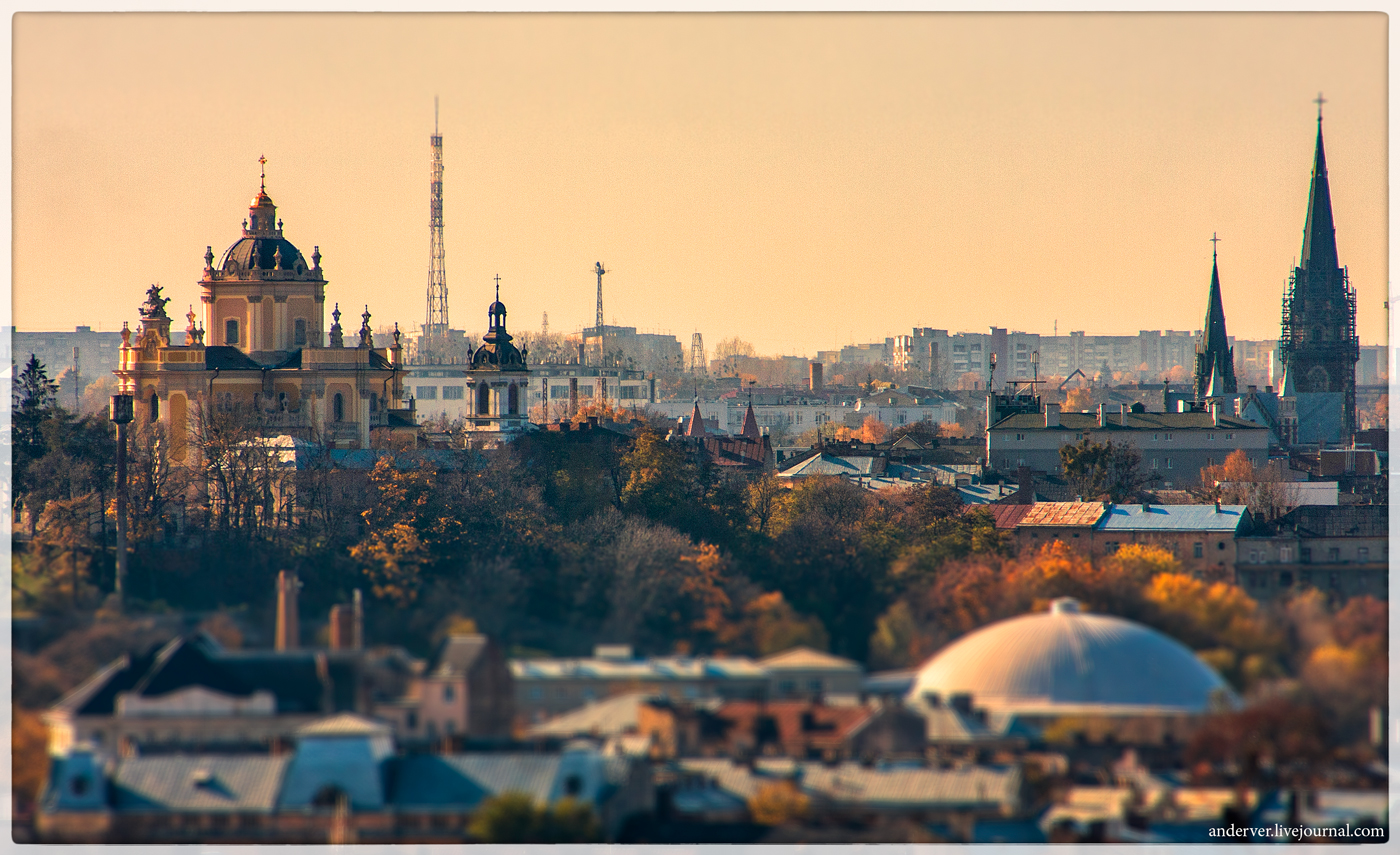
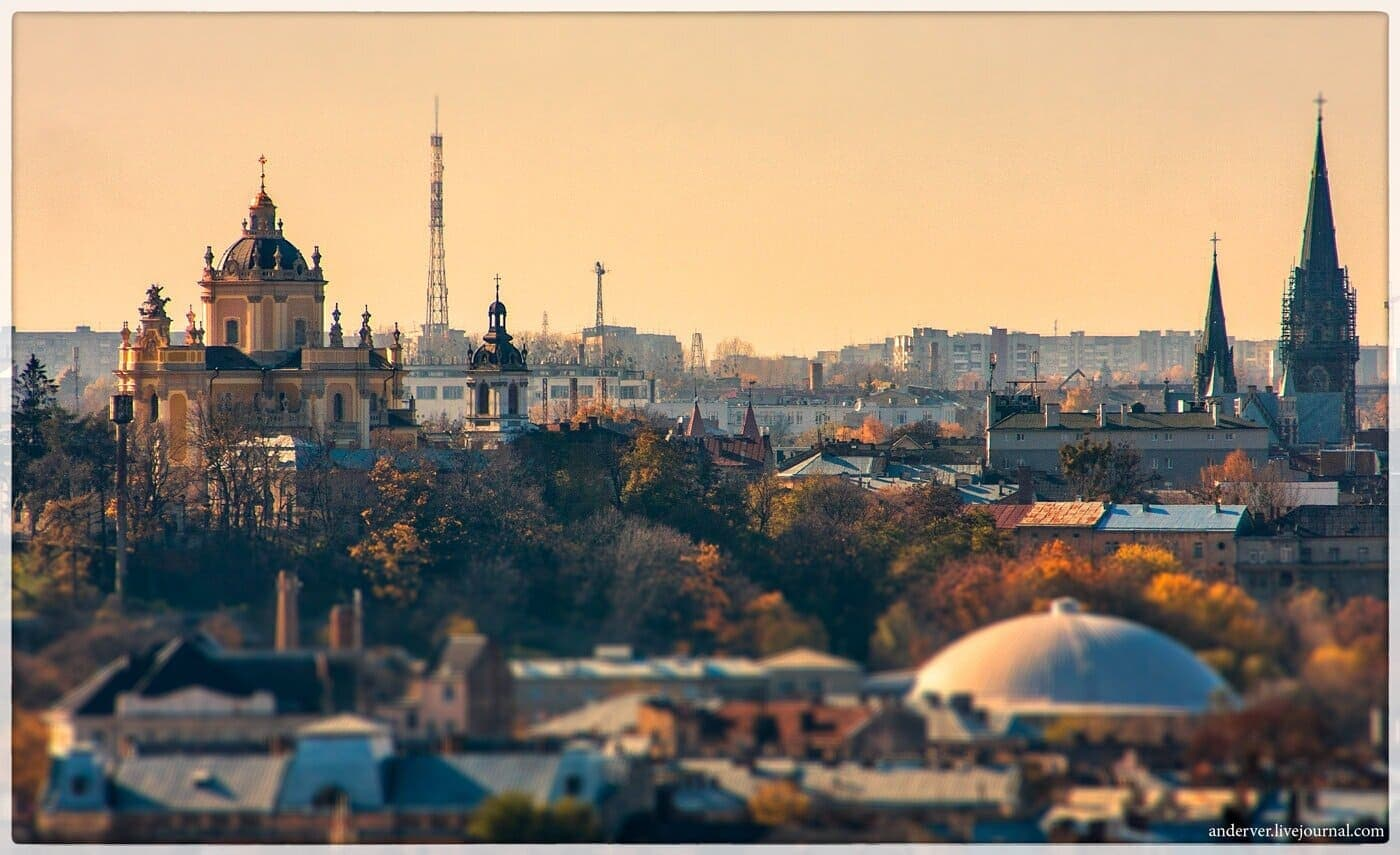
compress img, correct paddings (#43)
* compress img, correct paddings

* change width of item

* fix width for top routes item

* delete lines related with search b it doesn't work

* Remove search from my routes page (#44)

* Fix style

* Fix styles

diff --git a/frontend/guide-walk/src/pages/profile-page/profile-info-component.js b/frontend/guide-walk/src/pages/profile-page/profile-info-component.js
@@ -1,6 +1,6 @@
 import React from 'react';
 import { useAuth0 } from '@auth0/auth0-react';
-import { TextField }  from '@material-ui/core'; 
+import { TextField } from '@material-ui/core';
 import Button from '@material-ui/core/Button';
 import { withStyles } from '@material-ui/core/styles';
 
@@ -22,21 +22,21 @@ const CssTextField = withStyles({
   },
 })(TextField);
 
-export const ProfileInfoComponent = ({userAuthData}) => {
-  const {isAuthenticated, logout} = useAuth0();
+export const ProfileInfoComponent = ({ userAuthData }) => {
+  const { isAuthenticated, logout } = useAuth0();
   const userName = userAuthData && userAuthData.userName;
   const userEmail = userAuthData && userAuthData.email;
   const imgUrl = userAuthData && userAuthData.picture;
 
   return (
-    <div className={styles.form}>           
+    <div className={styles.wrapper}>
       <form className={styles.form}>
         <div className={styles.form__img}>
           <img src={imgUrl} alt={userName} />
         </div>
         <CssTextField
-          label="Name"
-          variant="outlined"
+          label='Name'
+          variant='outlined'
           value={userName || ''}
           InputProps={{
             readOnly: true,
@@ -47,10 +47,10 @@ export const ProfileInfoComponent = ({userAuthData}) => {
         />
 
         <CssTextField
-          id="standard-read-only-input"
-          label="Email"
+          id='standard-read-only-input'
+          label='Email'
           value={userEmail || ''}
-          variant="outlined"
+          variant='outlined'
           InputProps={{
             readOnly: true,
           }}
@@ -58,15 +58,12 @@ export const ProfileInfoComponent = ({userAuthData}) => {
             shrink: true,
           }}
         />
-      </form>
-      {isAuthenticated && <Button 
-        variant="contained"  
-        className={styles.logout__btn}
-        color="primary" 
-        onClick={logout}>
+        {isAuthenticated && (
+          <Button variant='contained' className={styles.logout__btn} color='primary' onClick={logout}>
             Log out
-        </Button>}
+          </Button>
+        )}
+      </form>
     </div>
-  )
+  );
 };
-

diff --git a/frontend/guide-walk/src/pages/profile-page/profile-info-component.module.scss b/frontend/guide-walk/src/pages/profile-page/profile-info-component.module.scss
@@ -6,13 +6,13 @@
 
   &__img {
     display: flex;
-        justify-content: center;
-        img{
-            width: 80px;
-            height: 80px;
-            border-radius: 50%;
-            margin-bottom: 10px;
-        }
+    justify-content: center;
+    img {
+      width: 80px;
+      height: 80px;
+      border-radius: 50%;
+      margin-bottom: 10px;
+    }
   }
 }
 
@@ -23,7 +23,6 @@
 
 button.logout__btn {
   width: 80%;
-  margin-top: 20px;
   background-color: #457b9d;
   width: 50%;
   margin-top: 20px;
@@ -32,4 +31,13 @@ button.logout__btn {
 
 input {
   text-align: center;
+}
+
+.wrapper {
+  width: 75%;
+  margin: 0 auto;
+
+  @media screen and (max-width: 768px) {
+    width: 100%;
+  }
 }

diff --git a/frontend/guide-walk/src/ui/current-route-info-block/current-route-info-block.js b/frontend/guide-walk/src/ui/current-route-info-block/current-route-info-block.js
@@ -6,6 +6,8 @@ export const CurrentRouteInfoBlock = ({ currentPointData }) => {
   return (
     <div className={classNames('info-block')}>
       <h2 className={classNames('info-block__name')}>Route name: {currentPointData.routeName}</h2>
+      <h4 className={classNames('info-block__description')}>Point name:</h4>
+      <p className={classNames('info-block__description__text')}>{currentPointData.name}</p>
       <h4 className={classNames('info-block__description')}>Point description:</h4>
       <p className={classNames('info-block__description__text')}>{currentPointData.description}</p>
       <h4 className={classNames('info-block__points-left')}>Points left: {currentPointData.pointsLeft}</h4>

diff --git a/frontend/guide-walk/src/pages/my-routes-page/my-route.scss b/frontend/guide-walk/src/pages/my-routes-page/my-route.scss
@@ -3,9 +3,13 @@
     margin-bottom: 82px;
     margin-top: 30px;
     display: grid;
-    grid-template-columns: 1fr 1fr;
+    grid-template-columns: repeat(3, 1fr);
 
-    @media screen and (max-width: 668px) {
+    @media screen and (max-width: 1100px) {
+      grid-template-columns: repeat(2, 1fr);
+    }
+
+    @media screen and (max-width: 768px) {
       grid-template-columns: 1fr;
     }
   }

diff --git a/frontend/guide-walk/src/pages/top-routes/top-routes-component.scss b/frontend/guide-walk/src/pages/top-routes/top-routes-component.scss
@@ -3,9 +3,13 @@
     margin-bottom: 82px;
     margin-top: 30px;
     display: grid;
-    grid-template-columns: 1fr 1fr;
+    grid-template-columns: repeat(3, 1fr);
 
-    @media screen and (max-width: 668px) {
+    @media screen and (max-width: 1100px) {
+      grid-template-columns: repeat(2, 1fr);
+    }
+
+    @media screen and (max-width: 768px) {
       grid-template-columns: 1fr;
     }
   }

diff --git a/frontend/guide-walk/src/ui/top-item-component/top-routes-item-component.scss b/frontend/guide-walk/src/ui/top-item-component/top-routes-item-component.scss
@@ -1,6 +1,6 @@
 .top-route-item {
     &__wrapper {
-        width: 90%;
+        width: 100%;
         max-height: 350px;
         display: flex;
         flex-direction: column;
@@ -11,6 +11,10 @@
         border-radius: 10px;
         margin-bottom: 25px;
         overflow: hidden;
+
+        @media screen and (min-width: 768px) {
+          width: 90%;
+          }
     }
 
     &__img {

diff --git a/frontend/guide-walk/src/pages/my-routes-page/my-route-page-component.js b/frontend/guide-walk/src/pages/my-routes-page/my-route-page-component.js
@@ -20,8 +20,8 @@ export const MyRoutesPageComponent = ({
 
   return (
     <div className={classNames('my-routes__wrapper')}>
-      {userRoutesData &&
-        userRoutesData.map((route) => {
+        {userRoutesData &&
+          userRoutesData.map((route) => {
           const { name, _id, rating, userRateIds } = route;
           return (
             <MyAndSavedRouteItemComponent

diff --git a/frontend/guide-walk/src/pages/saved-routes/saved-route.scss b/frontend/guide-walk/src/pages/saved-routes/saved-route.scss
@@ -4,9 +4,13 @@
     margin-top: 30px;
 
     display: grid;
-    grid-template-columns: 1fr 1fr;
+    grid-template-columns: repeat(3, 1fr);
 
-    @media screen and (max-width: 668px) {
+    @media screen and (max-width: 1100px) {
+      grid-template-columns: repeat(2, 1fr);
+    }
+
+    @media screen and (max-width: 768px) {
       grid-template-columns: 1fr;
     }
   }

diff --git a/frontend/guide-walk/src/pages/tab-routes/tab-routes-component.js b/frontend/guide-walk/src/pages/tab-routes/tab-routes-component.js
@@ -63,7 +63,7 @@ export const FullWidthTabs = () => {
     <div className='root'>
       <ThemeProvider theme={theme}>
         <Tabs
-          style={{ width: '50%', margin: '0 auto' }}
+          style={{ width: '80%', margin: '0 auto' }}
           value={value}
           onChange={handleChange}
           indicatorColor='primary'

diff --git a/frontend/guide-walk/src/pages/tab-routes/tab-routes-component.scss b/frontend/guide-walk/src/pages/tab-routes/tab-routes-component.scss
@@ -2,3 +2,7 @@
   width: 90vw;
   margin: 15px auto 0;
 }
+
+.MuiBox-root {
+  padding: 17px !important;
+}
